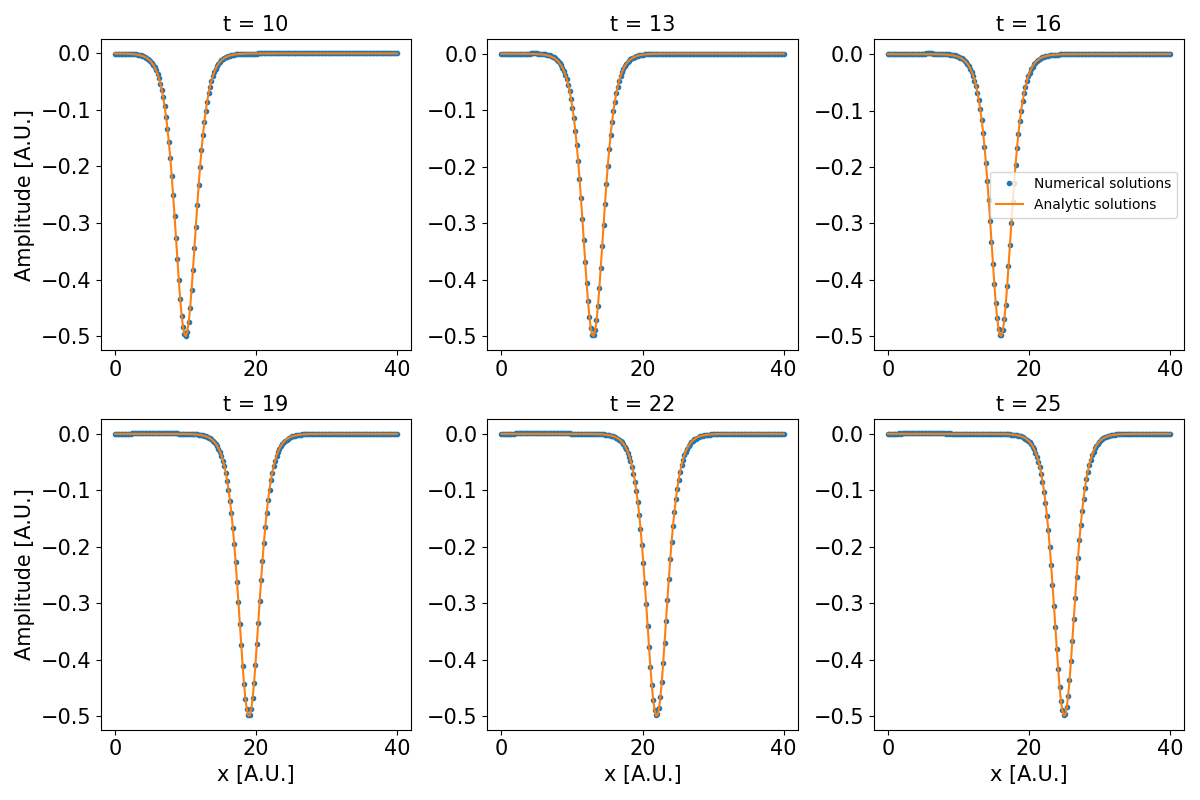
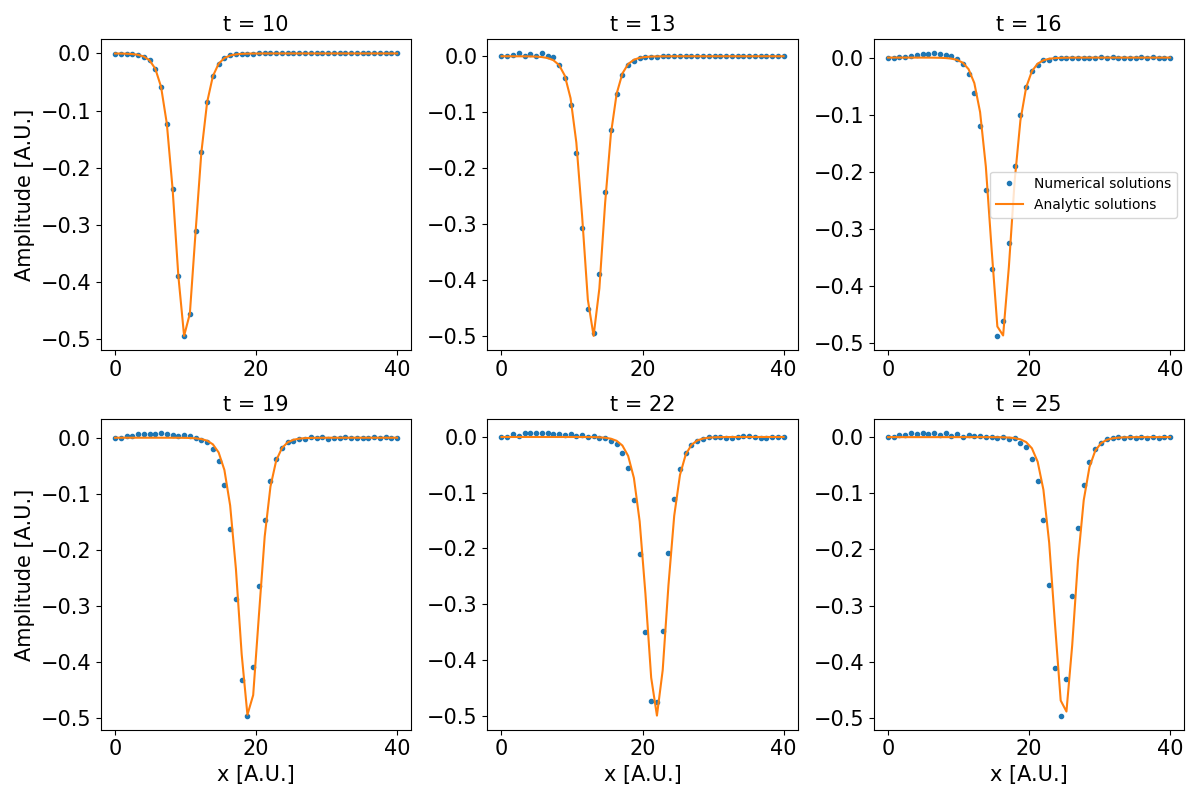
Advection, Convection

diff --git a/solitons_comparison.py b/solitons_comparison.py
@@ -5,7 +5,7 @@ import matplotlib.pyplot as plt
 
 
 # Define constants
-Delta_x = 0.2                  # Spatial step size
+Delta_x = 0.8                  # Spatial step size
 X_max = 40                     # System length
 x_size = int(X_max / Delta_x)  # Number of spatial steps
 
@@ -29,6 +29,60 @@ T_series=range(0,18,3)
 u_sol_list=[u_solution[:, int(i / Delta_t)] for i in T_series]
 u_ana_list=[np.array([soliton_solution(x, i + t_0) for x in x_series]) for i in T_series]
 
-# Save zip file:
-np.savez('Data\\solitons_comparison.npz', u_sol=u_sol_list, u_ana=u_ana_list, x_series=x_series)
 
+## PART 2: We now double the grid size by a factor of 2 and 4 respectively to check for convergence. 
+
+## FACTOR 2: ##
+# Define constants
+Delta_x = Delta_x/2            # Spatial step size
+x_size = int(X_max / Delta_x)  # Number of spatial steps
+
+# Initialize solution array
+u = np.zeros([x_size, t_size], dtype=float)
+
+x_series2 = np.linspace(0, X_max, x_size)  # Positions
+
+u[:, 0] = np.array([soliton_solution(x, t_0) for x in x_series2])  # Soliton at t0
+
+# Solve the KdV equation
+u_solution = KdV_Solver(u, Delta_x, Delta_t) # Solutions for time up to T_max
+
+# Extract one sample with:
+u_sol_2=u_solution[:, int(T_series[3] / Delta_t)]
+u_ana_2=np.array([soliton_solution(x, T_series[3] + t_0) for x in x_series2])
+
+## FACTOR 4: ##
+# Define constants
+Delta_x = Delta_x/2            # Spatial step size
+x_size = int(X_max / Delta_x)  # Number of spatial steps
+
+# Initialize solution array
+u = np.zeros([x_size, t_size], dtype=float)
+
+x_series4 = np.linspace(0, X_max, x_size)  # Positions
+
+u[:, 0] = np.array([soliton_solution(x, t_0) for x in x_series4])  # Soliton at t0
+
+# Solve the KdV equation
+u_solution = KdV_Solver(u, Delta_x, Delta_t) # Solutions for time up to T_max
+
+# Extract one sample at t=19:
+u_sol_4=u_solution[:, int(T_series[3] / Delta_t)]
+u_ana_4=np.array([soliton_solution(x, T_series[3] + t_0) for x in x_series4])
+
+
+# Save zip file:
+np.savez('Data\\solitons_comparison.npz',
+         u_sol=u_sol_list, 
+         u_ana=u_ana_list, 
+
+         u2=u_sol_2,
+         a2=u_ana_2,
+
+         u4=u_sol_4,
+         a4=u_ana_4,
+
+         x_series=x_series,
+         x_series2=x_series2,
+         x_series4=x_series4
+         )

diff --git a/advection.py b/advection.py
@@ -12,27 +12,39 @@ x_size = int(X_max / Delta_x)  # Number of spatial steps
 Delta_t = 0.001                # Time step size
 T_max = 20                     # Maximum time
 t_size = int(T_max / Delta_t)  # Number of time steps
+x_series = np.linspace(0, X_max, x_size)  # Positions
 
 # Initialize solution array
-u = np.zeros([x_size, t_size], dtype=float)
-
+u_kink_init = np.zeros([x_size, t_size], dtype=float)
+u_soliton_init=np.copy(u_kink_init)
 # define the kink initial conditions
 def init(x,mu=X_max/2,sig=1):
     return (
         1.0 / (np.sqrt(2.0 * np.pi) * sig) * np.exp(-np.power((x - mu) / sig, 2.0) / 2)
     )
 
-# Initialize start condition
-x_series = np.linspace(0, X_max, x_size)  # Positions
-t_0 = 10                                  # Initial time
-u[:, 0] = np.array([init(x) for x in x_series])  # Soliton at t0
+# Initialize start conditions:
+u_kink_init[:, 0] = np.array([init(x) for x in x_series]) 
+
+# Define, for comparison, the soliton initial condition
+t_0 = 20                                  # Initial time
+u_soliton_init[:, 0] = np.array([soliton_solution(x, t_0) for x in x_series])  # Soliton at t0
 
 # Solve the KdV equation
-u_solution = KdV_Solver(u, Delta_x, Delta_t, lin=True, mu=0) # Solutions for time up to T_max
+u_solution_sol = KdV_Solver(u_soliton_init, Delta_x, Delta_t) # Solutions for time up to T_max
 
-# Extract six sample points from the solutions:
-T_series=range(0,18,3)
-u_sol_list=[u_solution[:, int(i / Delta_t)] for i in T_series]
+u_solution_kink = KdV_Solver(u_kink_init, Delta_x, Delta_t, lin=True, mu=0)
+
+
+# Extract six sample solutions from each of them:
+T_series=np.linspace(0,3,6)
+u_sol_list=[u_solution_sol[:, int(t / Delta_t)] for t in T_series]
+u_kink_list=[u_solution_kink[:, int(t / Delta_t)] for t in T_series]
 
 # Save zip file:
-np.savez('Data\\advection.npz', u_sol=u_sol_list, x_series=x_series)
+np.savez('Data\\advection.npz', 
+         u_sol=u_sol_list, 
+         u_kink=u_kink_list, 
+         x_series=x_series,
+         T=T_series
+         )

diff --git a/solitons_comparison_plot.py b/solitons_comparison_plot.py
@@ -10,9 +10,18 @@ data = np.load('Data\\solitons_comparison.npz')
 # Access individual arrays
 u_solution = data['u_sol']
 u_ana_list = data['u_ana']
-x_series = data['x_series']
 
-# Plotting 
+u_sol_2 = data['u2']
+u_ana_2 = data['a2']
+
+u_sol_4 = data['u4']
+u_ana_4 = data['a4']
+
+x_series = data['x_series']
+x_series2 = data['x_series2']
+x_series4 = data['x_series4']
+
+# Plot 1: Comparison at different time steps
 fig,axes = plt.subplots(2,3,figsize=(12,8))
 
 
@@ -36,4 +45,39 @@ for i, ax in enumerate(axes.flat):
 # To prevent overlap
 plt.tight_layout()
 plt.savefig("Figures//solitons_comparison.png")
+#plt.show()
+plt.clf()
+
+
+# Plot 2: Convergence at different grid size 
+fig,axes = plt.subplots(1,3,figsize=(12,4))
+
+u_conv_sol_list=[u_solution[3],u_sol_2,u_sol_4]
+u_conv_ana_list=[u_ana_list[3],u_ana_2,u_ana_4]
+
+x_series_list=[x_series,x_series2,x_series4]
+DeltaX_list=[0.08,0.04,0.02]
+for i, ax in enumerate(axes.flat):
+        ax.plot(x_series_list[i],u_conv_sol_list[i],".",label="Numerical solutions")
+        ax.plot(x_series_list[i],u_conv_ana_list[i],label="Analytic solutions")
+        # Axes title
+        ax.set_title(f'Step size = {DeltaX_list[i]}', fontsize=15)
+        
+        # Axes label
+        ax.set_xlabel('x [A.U.]', fontsize = 15)
+        if i==2:
+            ax.legend()
+        ax.set_ylabel('Amplitude [A.U.]', fontsize = 15)
+        
+        # Ticks font size
+        ax.tick_params(axis='both', labelsize=15)  
+
+        ax.set_ylim(-0.2,0.05)
+
+# To prevent overlap
+plt.tight_layout()
+plt.savefig("Figures//solitons_convergence.png")
 plt.show()
+plt.clf()
+
+

diff --git a/advection_plot.py b/advection_plot.py
@@ -8,17 +8,19 @@ from soliton_plot import *
 data = np.load('Data\\advection.npz')
 
 # Access individual arrays
-u_solution = data['u_sol']
+u_solution_sol = data['u_sol']
+u_solution_kink= data['u_kink']
 x_series = data['x_series']
-
+T_series=data['T']
 # Plotting 
 fig,axes = plt.subplots(2,3,figsize=(12,8))
 
 
 for i, ax in enumerate(axes.flat):
-        ax.plot(x_series, u_solution[i],".",label="Numerical solutions")
+        ax.plot(x_series, u_solution_kink[i],".",label="Kink")
+        ax.plot(x_series, u_solution_sol[i],".",label="Soliton")
         # Axes title
-        ax.set_title(f't = {10 + i*3}', fontsize=15)
+        ax.set_title(f't = {round(T_series[i],2)}', fontsize=15)
         
         # Axes label
         if i == 3 or i == 4 or i == 5:

diff --git a/test.py b/test.py
@@ -41,4 +41,3 @@ def test_squared_residuals():
         analytical = np.array([soliton_solution(x, t + t_0) for x in x_series])
         residual = np.sum((numerical - analytical) ** 2)
         assert residual < tol, f"Residual {residual} exceeds tolerance at t = {t + t_0}"
-
